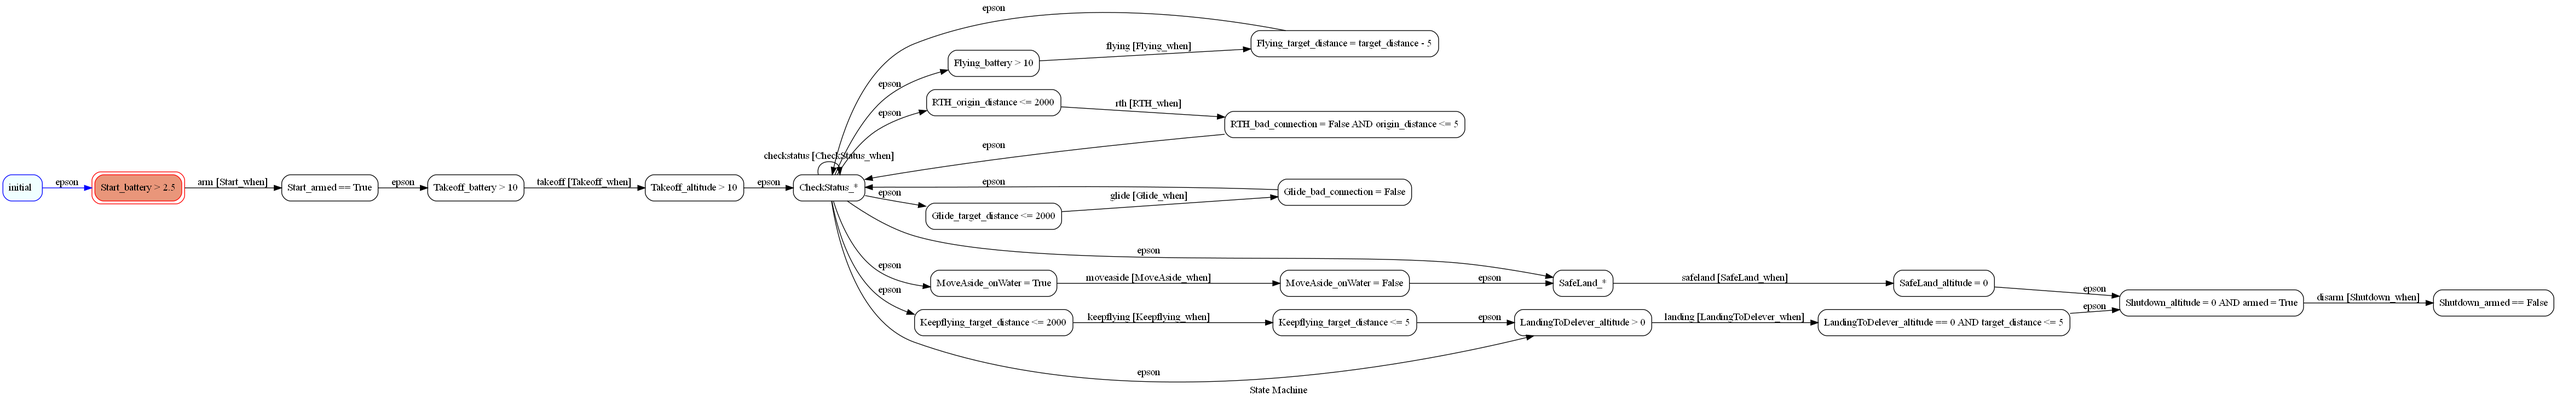
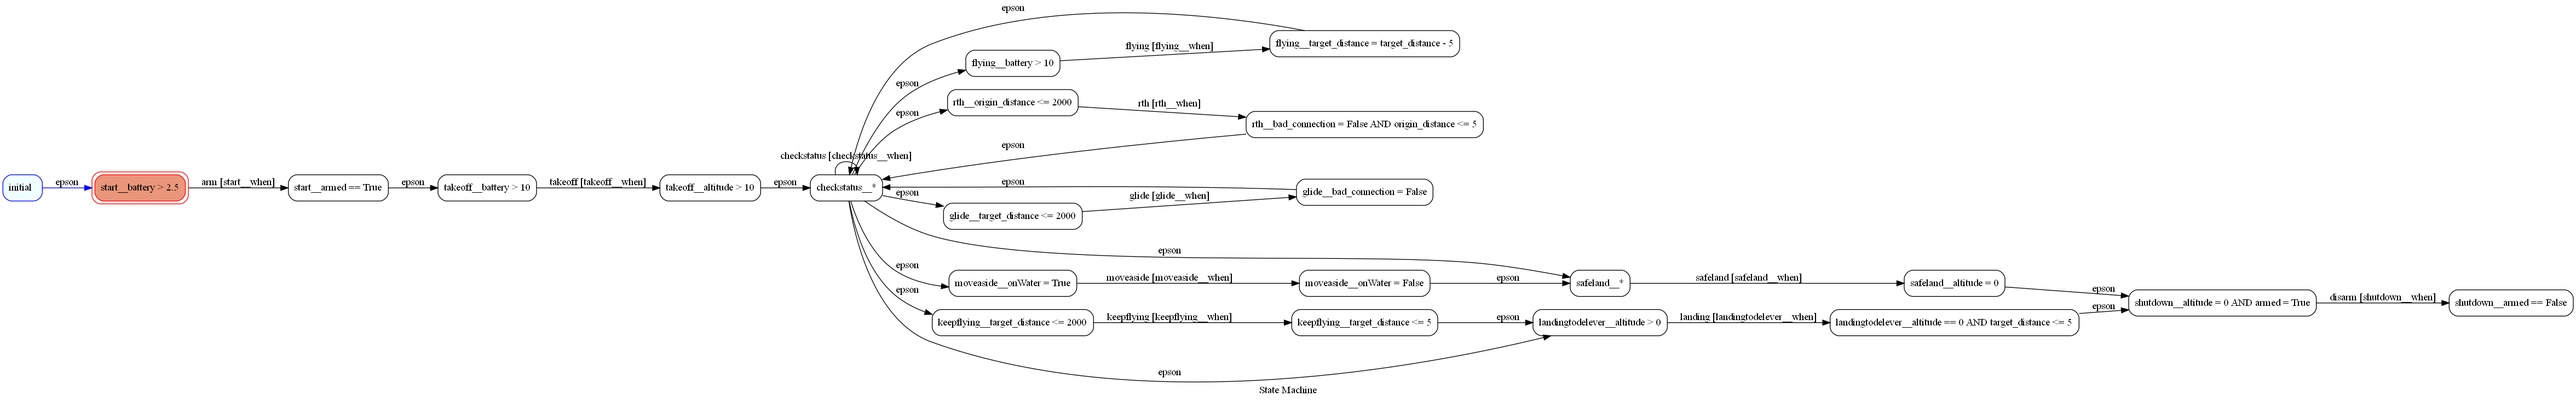
sync

diff --git a/src/unanticipated_change_identifier.py b/src/unanticipated_change_identifier.py
@@ -15,9 +15,54 @@ class UC_state_identifier:
                 # Obtenha os novos dados
                 new_data=shared_list[last_len:current_len][0][0]
                 new_df=shared_list[last_len:current_len][0][1]
-                print(f"Novas linhas adicionadas ao DataFrame:{len(shared_list)}")
+                # print(f"Novas linhas adicionadas ao DataFrame:{len(shared_list)}")
                 last_len = current_len
                 
                 # Atualiza as variáveis do modelo
                 self.model.update_variables(new_data)
+                self.check_unanticipated_change(new_data, new_df)
             time.sleep(1)
+
+    def check_unanticipated_change(self, new_data, new_df):
+        # Verifica se ocorreu uma mudança não antecipada
+        collected_current_action = new_data["action"]
+        collected_last_action = new_df["action"].iloc[-2]
+
+        # passou para outra ação
+        if collected_current_action != collected_last_action:
+            current_state = self.model.state
+
+            scenario, given_expression = current_state.split("__")
+            given_sat = eval(given_expression, {"__builtins__": None}, vars(self.model))
+
+            if not given_sat:
+                print(f"Erro: A condição {given_expression} não foi satisfeita")
+                return
+            
+            method_name = f"{collected_last_action}__when"
+            method_to_call  = getattr(self.model, method_name)
+            when_sat = method_to_call()
+            if not when_sat:
+                print(f"Erro: A condição {method_name} não foi satisfeita")
+                return
+            
+            current_state = self.model.state
+            scenario, then_expression = current_state.split("__")
+            then_sat = eval(then_expression, {"__builtins__": None}, vars(self.model))
+
+            if not then_sat:
+                print(f"Erro: A condição {then_expression} não foi satisfeita")
+                return
+            
+
+        else: #continua na acao
+            current_state = self.model.state
+
+            scenario, given_expression = current_state.split("__")
+            given_sat = eval(given_expression, {"__builtins__": None}, vars(self.model))
+
+            if not given_sat:
+                print(f"Erro: A condição {given_expression} não foi satisfeita")
+                return
+
+        

diff --git a/src/dinamic_model.py b/src/dinamic_model.py
@@ -1,52 +1,60 @@
 class DynamicClass:
     def __init__(self):
         self.altitude = None  # float Range: [0, 1000.0]
+        self.action = None
         self.target_distance = None  # float Range: [0.0, 10000.0]
+        self.action = None
         self.origin_distance = None  # float Range: [0.0, 10000.0]
+        self.action = None
         self.battery = None  # float Range: [0.0, 100.0]
+        self.action = None
         self.obstacle = None  # boolean Range: [False, True]
+        self.action = None
         self.armed = None  # boolean Range: [False, True]
+        self.action = None
         self.bad_connection = None  # boolean Range: [False, True]
+        self.action = None
         self.onWater = None  # boolean Range: [False, True]
+        self.action = None
 
-    def Start_when(self):
+    def Start__when(self):
        return True
 
-    def Takeoff_when(self):
+    def Takeoff__when(self):
        return True
 
-    def Flying_when(self):
+    def Flying__when(self):
        if self.target_distance > 5: return True
        else: return False
 
-    def RTH_when(self):
+    def RTH__when(self):
        if self.bad_connection == True: return True
        else: return False
 
-    def Glide_when(self):
+    def Glide__when(self):
        if self.bad_connection == True: return True
        else: return False
 
-    def CheckStatus_when(self):
+    def CheckStatus__when(self):
        return True
 
-    def SafeLand_when(self):
+    def SafeLand__when(self):
        if self.battery <= 10: return True
        else: return False
 
-    def MoveAside_when(self):
+    def MoveAside__when(self):
        if self.battery <= 10: return True
        else: return False
 
-    def Keepflying_when(self):
+    def Keepflying__when(self):
        if self.battery <= 10: return True
        else: return False
 
-    def LandingToDelever_when(self):
+    def LandingToDelever__when(self):
        if self.target_distance <= 5: return True
        else: return False
 
-    def Shutdown_when(self):
+    def Shutdown__when(self):
        return True
 
     def create_update_variables(self, new_data):
@@ -58,3 +66,4 @@ class DynamicClass:
         self.armed = new_data["armed"]
         self.bad_connection = new_data["bad_connection"]
         self.onWater = new_data["onWater"]
+        self.action = new_data["action"]

diff --git a/src/class_builder.py b/src/class_builder.py
@@ -48,6 +48,8 @@ class ClassBuilder:
                 "max_value": max_value
             }
 
+            lines.append(f"        self.action = None")
+
         # Juntando todas as linhas em uma única string
         class_code = "\n".join(lines)
 
@@ -102,7 +104,7 @@ class ClassBuilder:
                             when = re.sub(pattern_or, 'or', when)
 
                             body = ""
-                            methed_name = f"{scenario_name}_when"
+                            methed_name = f"{scenario_name}__when"
 
                             if when == "*":
                                 body = "return True"
@@ -123,6 +125,8 @@ class ClassBuilder:
             var_name = item
             lines.append(f"        self.{var_name} = new_data[\"{var_name}\"]")
         
+
+        lines.append(f"        self.action = new_data[\"action\"]")
         # Juntando todas as linhas em uma única string
         method_code = "\n".join(lines)
 

diff --git a/src/state_machine_manager.py b/src/state_machine_manager.py
@@ -64,12 +64,12 @@ class StateMachineModel:
                         do = BDD_scenario.get("Do")
                         then = BDD_scenario.get("Then")
 
-                        indexed_given = f"{scenario_name}_{given}"
+                        indexed_given = f"{scenario_name.lower()}__{given}"
                         # indexed_when = f"{scenario_name}.({when})"
-                        adapted_when = f"{scenario_name}_when"
+                        adapted_when = f"{scenario_name.lower()}__when"
                         when_from_scenario[scenario_name] = when
                         indexed_do = f"{do}"
-                        indexed_then = f"{scenario_name}_{then}"
+                        indexed_then = f"{scenario_name.lower()}__{then}"
 
                         add_state(self.machine,indexed_given)
                         add_state(self.machine, indexed_then)
